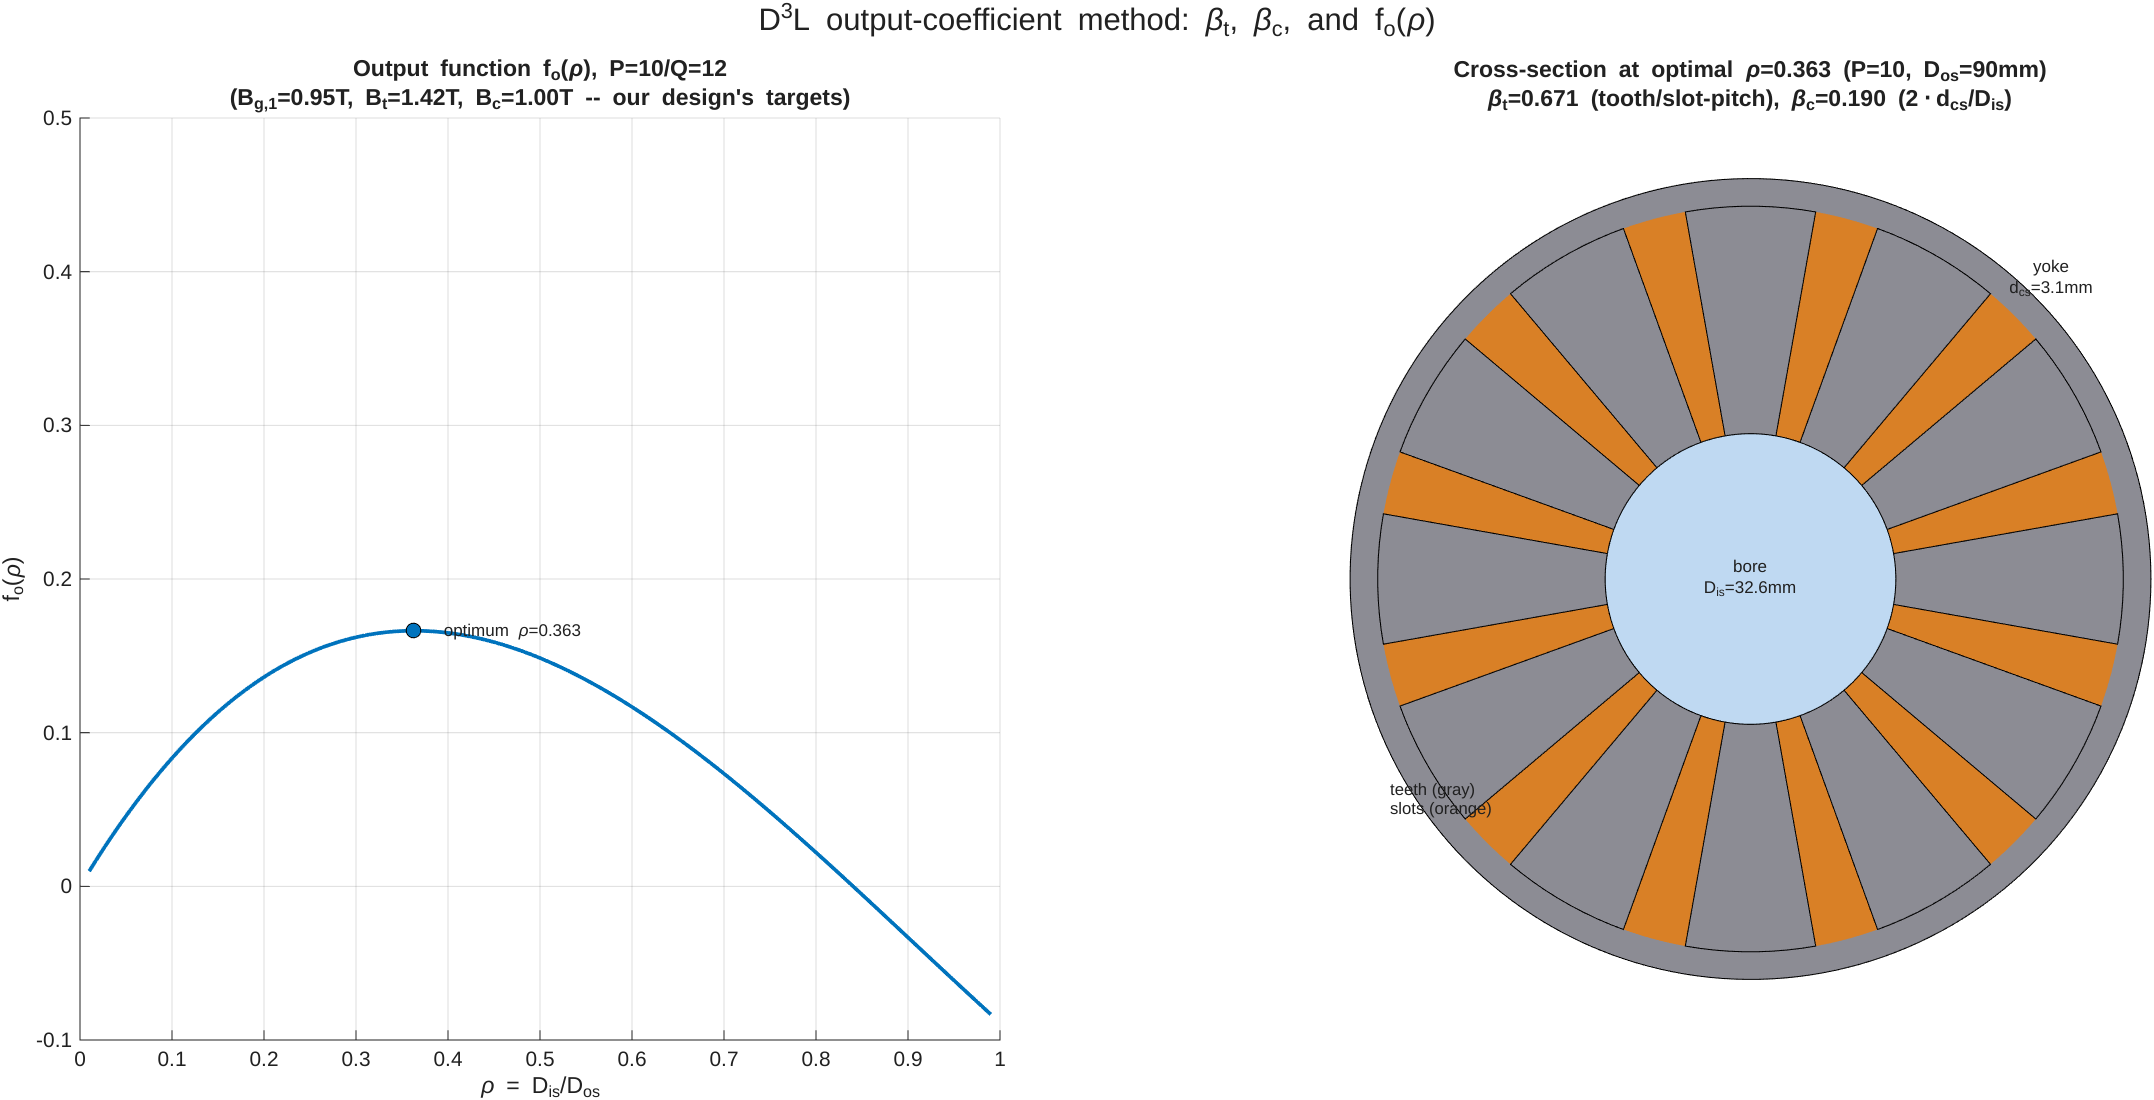
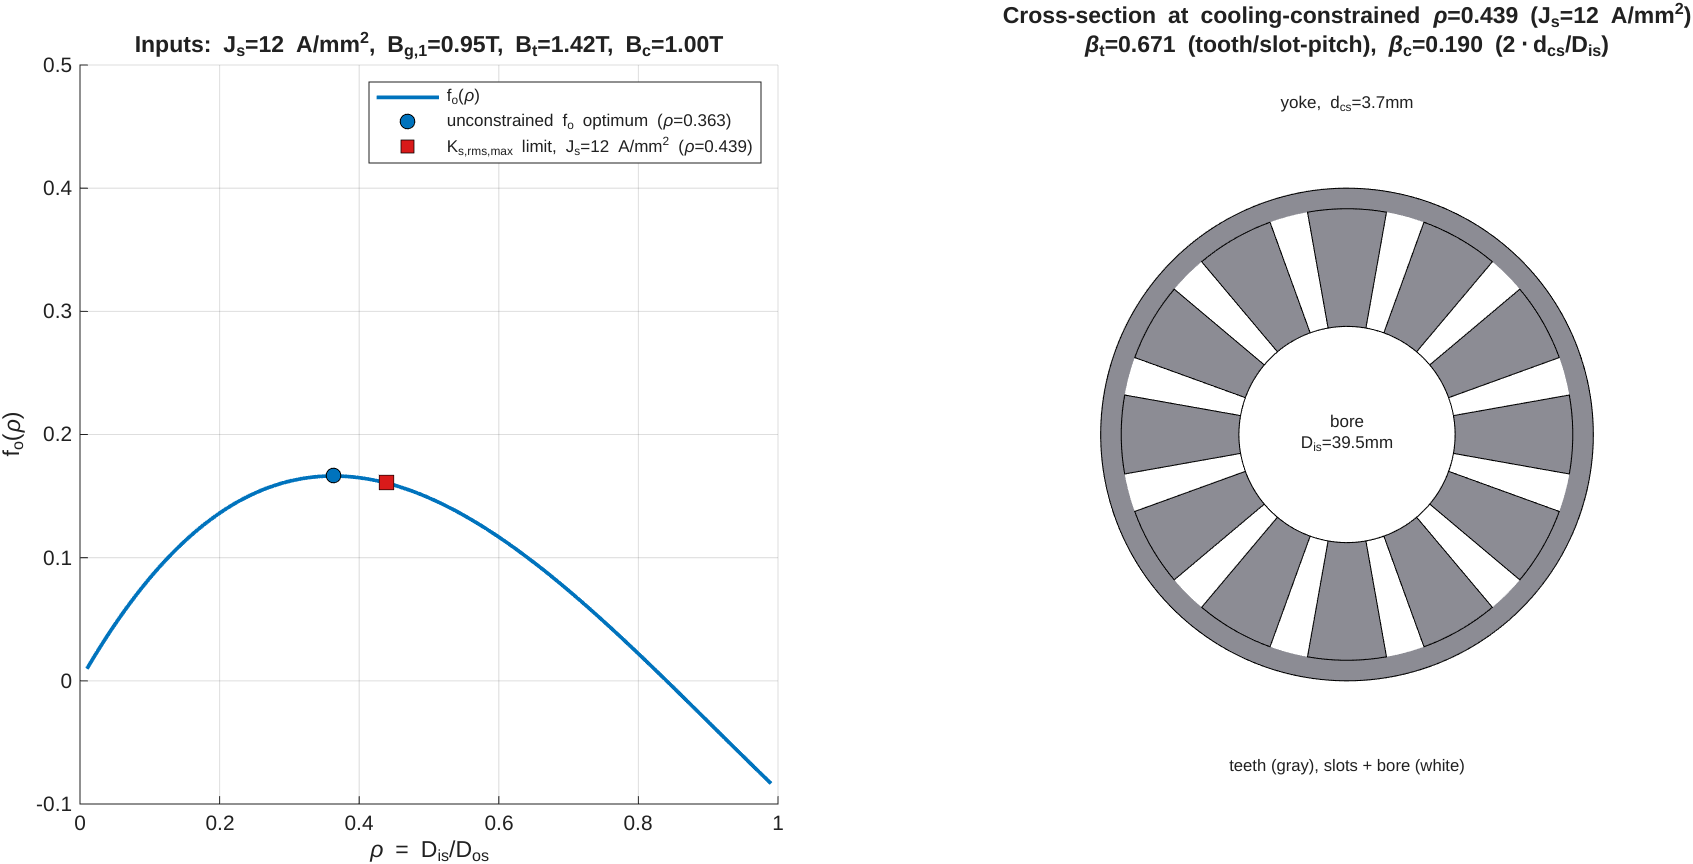
some advancement.

diff --git a/IPM_Design_Report.tex b/IPM_Design_Report.tex
@@ -251,7 +251,7 @@ $\beta_t$ is the fraction of a stator slot pitch a tooth must occupy to carry th
 &K_{s,rms,max} - \frac{k_{Cu}J_{s,rms}}{4}\left(aD_{is}-2bD_{os}+\frac{D_{os}^2}{D_{is}}\right) \geq 0
 \end{aligned}
 \end{equation}
-where $a=(\beta_t+\beta_c)^2-(1-\beta_t)^2$ and $b=\beta_t+\beta_c$. Solving this constrained optimization for $D_{is}$ (the unconstrained maximizer of $f_o$ if it already satisfies the constraint, otherwise the constraint-boundary solution) feeds the corresponding $D^3L$ output equation; the Formula-2 analogue of Esson's rule (Eq.~\ref{eq:essons_rule}):
+where $a=(\beta_t+\beta_c)^2-(1-\beta_t)^2$ and $b=\beta_t+\beta_c$. Solving this constrained optimization for $D_{is}$ (the unconstrained maximizer of $f_o$ if it already satisfies the constraint, otherwise the constraint-boundary solution) feeds the corresponding $D^3L$ output equation; the Formula-2 analogue of Esson's rule (Eq.~\ref{eq:essons_rule}) is:
 \begin{equation}
 \label{eq:essons_rule_d3l}
 \begin{split}
@@ -271,14 +271,8 @@ This procedure needs more design targets than Formula 1's single $\sigma_m$; we 
 \\\textbf{Max. RMS linear current density ($K_{s,rms,max}$):} 90 kA/m, the cooling-headroom limit, within range for liquid-cooled machines (150 - 200 kA/m) \cite{LucaLecture6}.
 \\\textbf{RMS current density ($J_{s,rms}$):} 8 A/mm$^2$. Within the the 7--10 A/mm$^2$ range presented in \cite{LucaLecture6}.
 
-\begin{figure*}[!t]
-\centering
-\includegraphics[width=0.9\textwidth]{figures/d3l_output_function.png}
-\caption{Left: output function $f_o(\rho)$ at our design's flux-density targets, dot marking the optimum. Right: cross-section schematic at that optimal ratio.}
-\label{fig:d3l_output_function}
-\end{figure*}
-
-Solving Eq.~\ref{eq:essons_rule_d3l} for $l_e$ at these targets (\texttt{EssonsSizer.solveD3L} gives $D_{is}=32.8\,\text{mm}$ and $l_e=123.5\,\text{mm}$. The result \textbf{exceeds the requirement table's 110\,mm stack limit} (\tablename~\ref{tab:propulsion_motor_requirements}), and we are not even accounting for the winding heads ($\approx$33\,mm) or a cooling-jacket allowance. The sensitivity check (\texttt{plot\_D3L\_current\_density\_sensitivity.m}) shows that raising $J_{s,rms}$ from $8\,\text{A/mm}^2$ to $\approx$$12\,\text{A/mm}^2$ brings $l_e$ down to 85.2\,mm  ($D_{is}\approx39.5\,\text{mm}$). Note that this means that the new motor needs to handle a considerable higher current density than the industry standard.
+Solving Eq.~\ref{eq:essons_rule_d3l} for $l_e$ at these targets (\texttt{EssonsSizer.solveD3L} gives $D_{is}=32.8\,\text{mm}$ and $l_e=123.5\,\text{mm}$. The result \textbf{exceeds the requirement table's 110\,mm stack limit} (\tablename~\ref{tab:propulsion_motor_requirements}), and we are not even accounting for the winding heads ($\approx$33\,mm). The sensitivity check (\texttt{plot\_D3L\_current\_density\_sensitivity.m}) shows that raising $J_{s,rms}$ from $8\,\text{A/mm}^2$ to $\approx$$12\,\text{A/mm}^2$ brings $l_e$ down to 85.2\,mm  ($D_{is}\approx39.5\,\text{mm}$). We can see this in the sensitivity plot (Figure~\ref{fig:d3l_current_density_sensitivity}), and a summary of the two solutions is shown in Table~\ref{tab:formula1_vs_formula2}. From here on, \textbf{we will consdier the 12 A/mm$^2$} case. Note that this means that the new motor needs to handle a considerable higher current density than the industry standard.
+Figure~\ref{fig:d3l_output_function} shows the output function $f_o(\rho)$ at $J_{s,rms} = 12\,\text{A/mm}^2$.
 
 \begin{figure*}[!t]
 \centering
@@ -286,9 +280,6 @@ Solving Eq.~\ref{eq:essons_rule_d3l} for $l_e$ at these targets (\texttt{EssonsS
 \caption{Sensitivity of the Formula 2 to the current density $J_{s}$. Raising it to $\approx$12\,A/mm$^2$ brings $l_e$ down to our 85.2\,mm target.}
 \label{fig:d3l_current_density_sensitivity}
 \end{figure*}
-
-Formula 2's bore (32.8\,mm) comes out noticeably smaller than Formula 1's 52.15\,mm. The two land on different rotor shapes as a result: Formula 1's $\lambda=2.0$ choice gives a fairly squat $l_e/D_{is}=0.628$, while Formula 2 independently derives a much longer, thinner $l_e/D_{is}\approx3.8$.
-
 \begin{table*}[!t]
 \centering
 \caption{Formula 1 vs. Formula 2 dimensions.}
@@ -304,9 +295,19 @@ $l_e/D_{is}$ & 0.628 & 3.8 & 2.16 \\
 \end{tabular}
 \end{table*}
 
+\begin{figure*}[!t]
+\centering
+\includegraphics[width=0.9\textwidth]{figures/d3l_output_function.png}
+\caption{Left: Optimum dimeter ratio optimum. Right: cross-section actual dimensions at optimal ratio.}
+\label{fig:d3l_output_function}
+\end{figure*}
+Formula 2's bore (32.8\,mm) comes out noticeably smaller than Formula 1's 52.15\,mm. The two land on different rotor shapes as a result: Formula 1's $\lambda=2.0$ choice gives a fairly squat $l_e/D_{is}=0.628$, while Formula 2 independently derives a much longer, thinner $l_e/D_{is}\approx3.8$.
+% TODO: Force a page break here.
+
+
 \subsubsection{Magnet Material Selection}
 \label{sec:magnet_material}
-The choice of permanent magnet material sets the remanent flux density $B_r$ that feeds every downstream calculation, from Formula 1's magnetic shear stress $\sigma_m$ to the flux-linkage target below and Ricca's saturation model (\sectionname~\ref{sec:ricca_methodology}) -- so it needs to be pinned down before those. We select \textbf{sintered NdFeB, grade N48} \cite{ACHMagnetsN48}: NdFeB gives the highest energy product of common magnet families, which this application needs for torque density within the fixed 95.9\,mm/110\,mm envelope, and N48 sits at a good remanence/cost balance -- higher grades (N52, N54) push $B_r$ only marginally higher at a steeper cost and availability penalty for a first design iteration.
+The choice of permanent magnet material sets the remanent flux density $B_r$ that feeds calculations like Formula 1's magnetic shear stress $\sigma_m$, the flux-linkage target below and Ricca's saturation model (\sectionname~\ref{sec:ricca_methodology}). We select \textbf{sintered NdFeB, grade N48} \cite{ACHMagnetsN48}: NdFeB gives the highest energy product of common magnet families, which this application needs for torque density, and N48 sits at a good remanence/cost balance. Higher grades (N52, N54) push $B_r$ only marginally higher at a steeper cost and availability penalty for a first design iteration.
 \\\textbf{Remanence at 20\textdegree{}C ($B_{r,20}$):} \textbf{1.37 T}, from the datasheet \cite{ACHMagnetsN48} -- in line with N48's typical 1.37--1.42\,T remanence range, and the value used throughout this project's sizing pipeline.
 \\\textbf{PM operating temperature ($T_{PM}$):} \textbf{140\textdegree{}C}, set by the existing 4\,l/min liquid cooling loop's expected margin above ambient plus $I^2R$/core losses reaching the rotor. Standard N48 (no suffix) is typically only rated to $\approx$80--100\textdegree{}C before accelerated, irreversible demagnetization risk; sustaining 140\textdegree{}C safely calls for a high-temperature-stable variant (N48SH or better, rated $\gtrsim$150\textdegree{}C) -- to be confirmed against the specific part ordered, an open item for the next design iteration.
 \\\textbf{Temperature-corrected remanence ($B_r$):} using a typical reversible temperature coefficient $\alpha_{Br}=-0.10\,\%/\text{\textdegree{}C}$,
